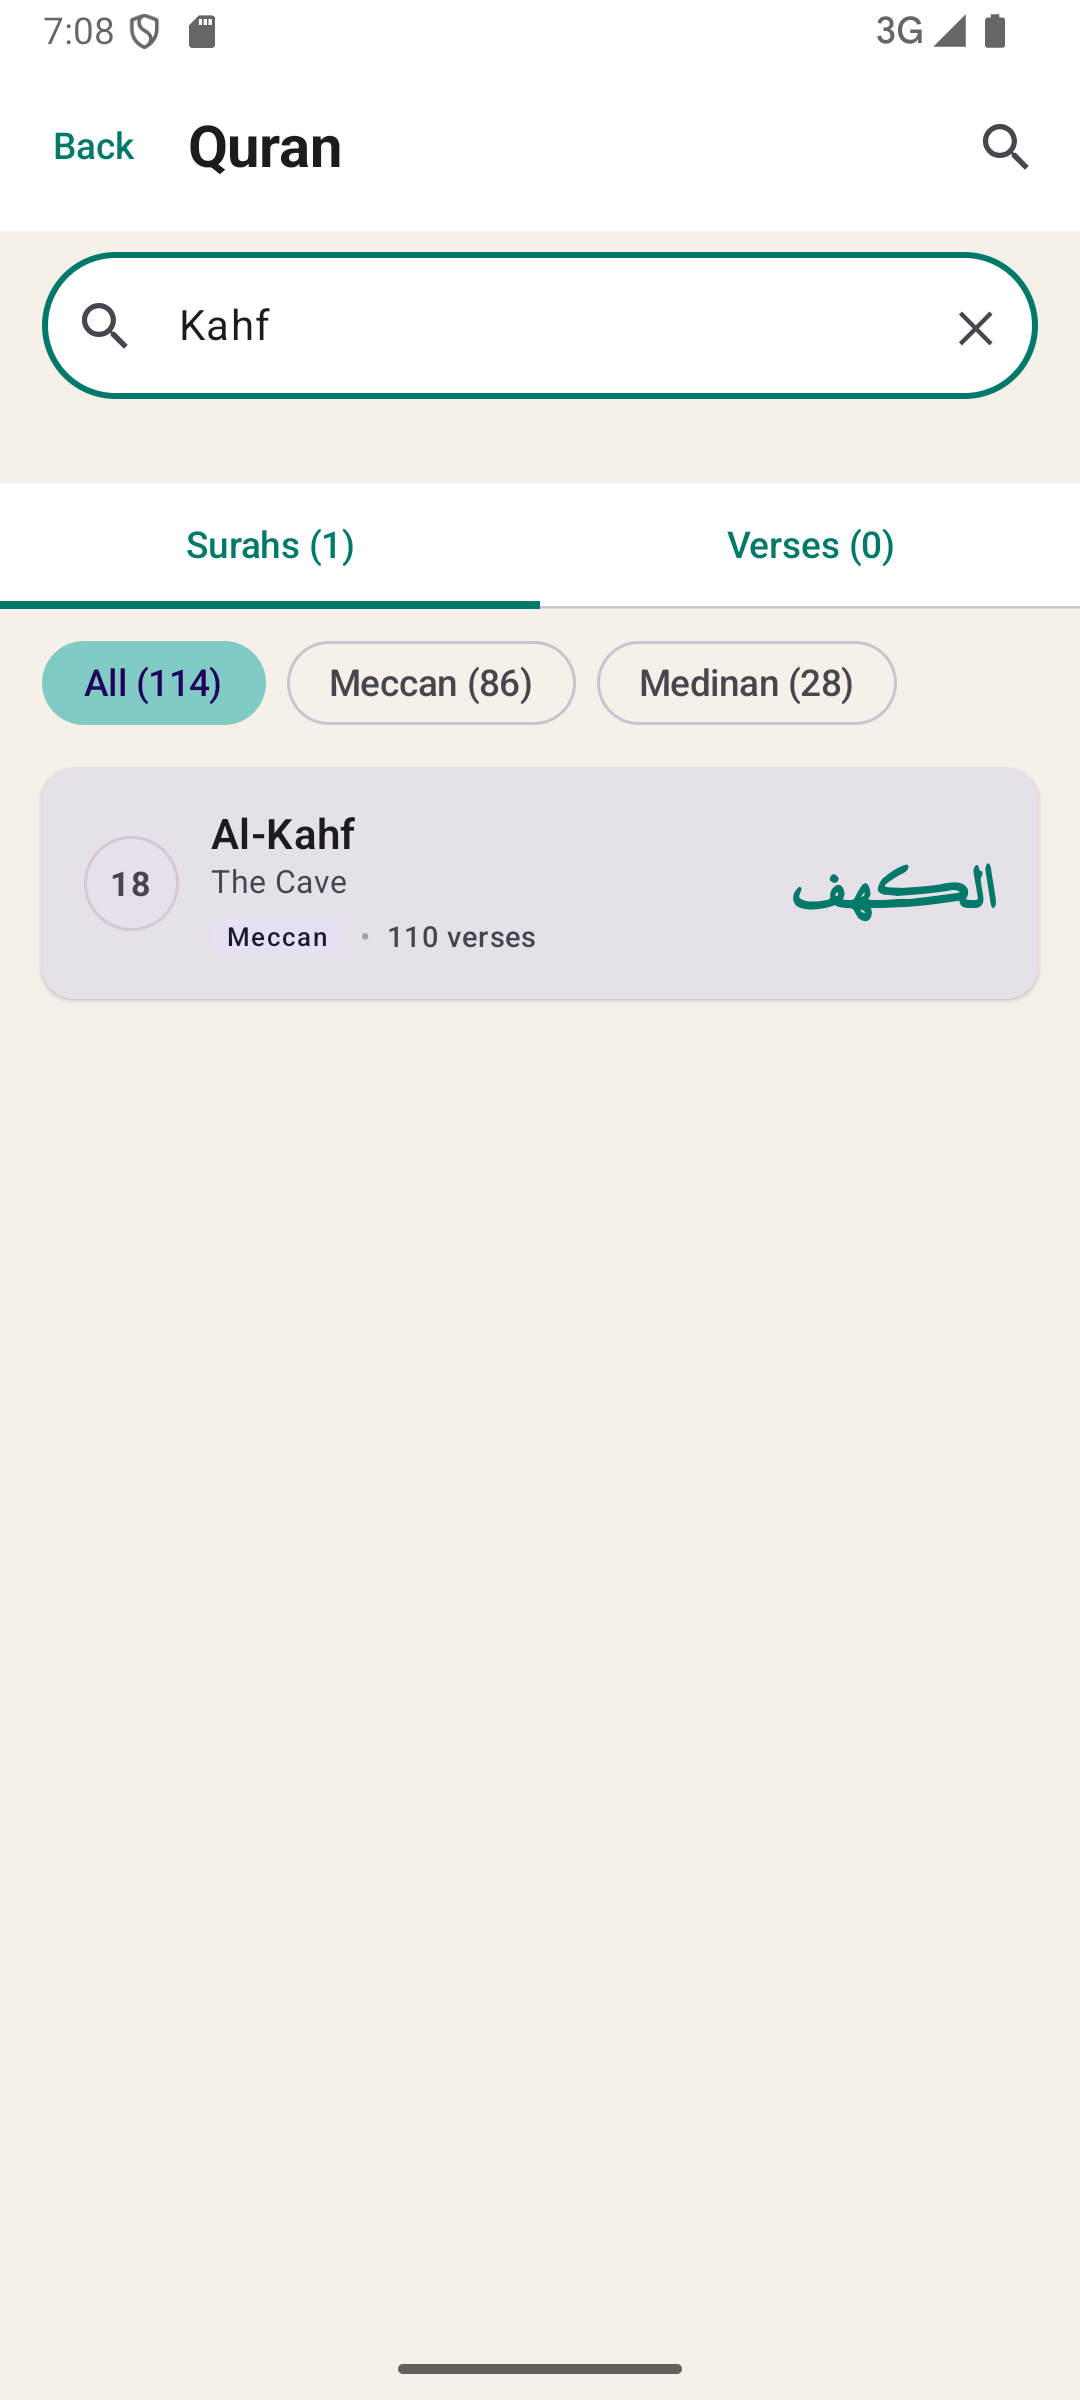
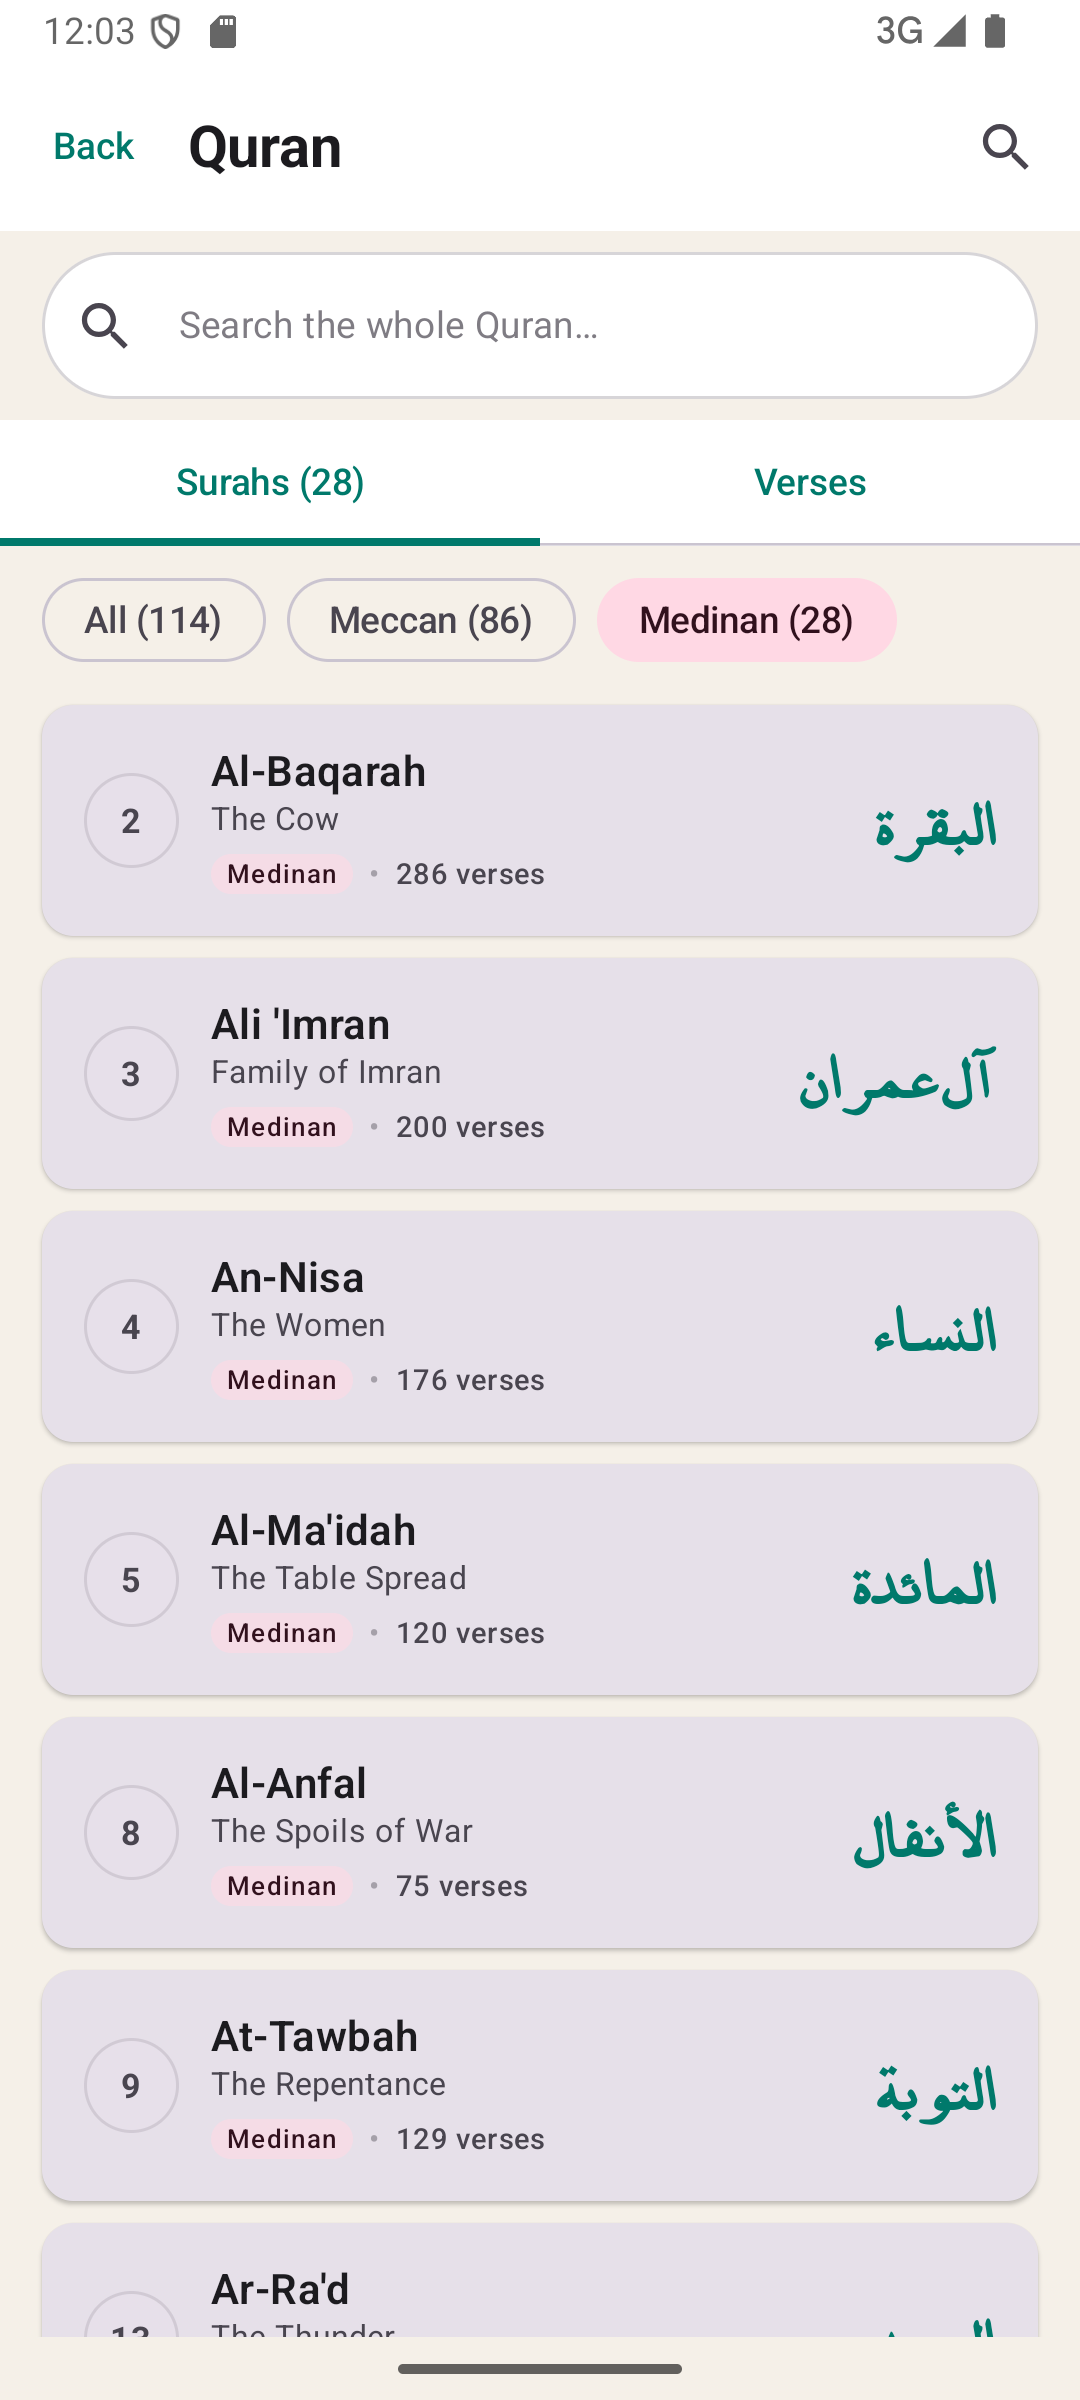
fix: remove empty gap above Quran and Scaffold screen tabs by fixing window insets (#79)

diff --git a/app/src/main/java/com/smiledev/rafiq_quran/Navigation.kt b/app/src/main/java/com/smiledev/rafiq_quran/Navigation.kt
@@ -61,8 +61,7 @@ fun MainNavigation() {
             onSearchResultClick = { sura, name, aya ->
               backStack.add(Ayah(suraNumber = sura, suraName = name, scrollToAya = aya))
             },
-            onBack = { backStack.removeLastOrNull() },
-            modifier = Modifier.safeDrawingPadding()
+            onBack = { backStack.removeLastOrNull() }
           )
         }
         entry<Ayah> { key ->
@@ -146,8 +145,7 @@ fun MainNavigation() {
         entry<HadithDetail> { key ->
           HadithDetailScreen(
             hadithId = key.hadithId,
-            onBack = { backStack.removeLastOrNull() },
-            modifier = Modifier.safeDrawingPadding()
+            onBack = { backStack.removeLastOrNull() }
           )
         }
         entry<Recitation> {
@@ -164,8 +162,7 @@ fun MainNavigation() {
         }
         entry<ZakatCalculator> {
           ZakatCalculatorScreen(
-            onBack = { backStack.removeLastOrNull() },
-            modifier = Modifier.safeDrawingPadding()
+            onBack = { backStack.removeLastOrNull() }
           )
         }
         entry<AsmaulHusna> {
@@ -192,14 +189,12 @@ fun MainNavigation() {
             onBack = { backStack.removeLastOrNull() },
             onBookmarkClick = { sura, name, aya ->
               backStack.add(Ayah(suraNumber = sura, suraName = name, scrollToAya = aya))
-            },
-            modifier = Modifier.safeDrawingPadding()
+            }
           )
         }
         entry<PrayerLog> {
           PrayerLogScreen(
-            onBack = { backStack.removeLastOrNull() },
-            modifier = Modifier.safeDrawingPadding()
+            onBack = { backStack.removeLastOrNull() }
           )
         }
         entry<PrayerGuidance> {

diff --git a/app/src/main/java/com/smiledev/rafiq_quran/ui/bookmarks/BookmarkListFullScreen.kt b/app/src/main/java/com/smiledev/rafiq_quran/ui/bookmarks/BookmarkListFullScreen.kt
@@ -46,6 +46,7 @@ fun BookmarkListFullScreen(
     val state by viewModel.uiState.collectAsState()
 
     Scaffold(
+        modifier = modifier,
         topBar = {
             TopAppBar(
                 title = { Text(stringResource(R.string.bookmarks)) },
@@ -58,7 +59,7 @@ fun BookmarkListFullScreen(
             )
         }
     ) { padding ->
-        Box(modifier = modifier.fillMaxSize().padding(padding)) {
+        Box(modifier = Modifier.fillMaxSize().padding(padding)) {
             when {
                 state.isLoading -> {
                     CircularProgressIndicator(modifier = Modifier.align(Alignment.Center).semantics { contentDescription = "Loading" })

diff --git a/app/src/main/java/com/smiledev/rafiq_quran/ui/quran/QuranScreen.kt b/app/src/main/java/com/smiledev/rafiq_quran/ui/quran/QuranScreen.kt
@@ -85,6 +85,7 @@ fun QuranScreen(
     var showSearch by remember { mutableStateOf(false) }
 
     Scaffold(
+        modifier = modifier,
         topBar = {
             Column {
                 RafiqTopAppBar(
@@ -122,7 +123,7 @@ fun QuranScreen(
             }
         }
     ) { padding ->
-        Column(modifier = modifier.fillMaxSize().padding(padding)) {
+        Column(modifier = Modifier.fillMaxSize().padding(padding)) {
             if (showSearch) {
                 // Scope tabs: Surahs vs Verses
                 TabRow(selectedTabIndex = state.searchTab.ordinal) {

diff --git a/app/src/main/java/com/smiledev/rafiq_quran/ui/prayerlog/PrayerLogScreen.kt b/app/src/main/java/com/smiledev/rafiq_quran/ui/prayerlog/PrayerLogScreen.kt
@@ -88,6 +88,7 @@ fun PrayerLogScreen(
     val state by viewModel.uiState.collectAsState()
 
     Scaffold(
+        modifier = modifier,
         topBar = {
             RafiqTopAppBar(
                 title = stringResource(R.string.prayer_log_title),
@@ -101,7 +102,7 @@ fun PrayerLogScreen(
         PullToRefreshBox(
             isRefreshing = isRefreshing,
             onRefresh = { isRefreshing = true; viewModel.refresh() },
-            modifier = modifier
+            modifier = Modifier
                 .fillMaxSize()
                 .padding(padding)
         ) {

diff --git a/app/src/main/java/com/smiledev/rafiq_quran/ui/hadith/HadithDetailScreen.kt b/app/src/main/java/com/smiledev/rafiq_quran/ui/hadith/HadithDetailScreen.kt
@@ -58,6 +58,7 @@ fun HadithDetailScreen(
     val resolvedLang = viewModel.resolvedLanguage()
 
     Scaffold(
+        modifier = modifier,
         topBar = {
             TopAppBar(
                 title = { Text(stringResource(R.string.hadiths)) },
@@ -76,7 +77,7 @@ fun HadithDetailScreen(
             }
         } else {
             Column(
-                modifier = modifier
+                modifier = Modifier
                     .fillMaxSize()
                     .padding(padding)
                     .verticalScroll(rememberScrollState())

diff --git a/app/src/main/java/com/smiledev/rafiq_quran/ui/zakat/ZakatCalculatorScreen.kt b/app/src/main/java/com/smiledev/rafiq_quran/ui/zakat/ZakatCalculatorScreen.kt
@@ -46,6 +46,7 @@ fun ZakatCalculatorScreen(
     val state by viewModel.uiState.collectAsState()
 
     Scaffold(
+        modifier = modifier,
         topBar = {
             TopAppBar(
                 title = { Text(stringResource(R.string.zakat_calculator)) },
@@ -68,7 +69,7 @@ fun ZakatCalculatorScreen(
         }
 
         Column(
-            modifier = modifier
+            modifier = Modifier
                 .fillMaxSize()
                 .padding(padding)
                 .padding(16.dp)
